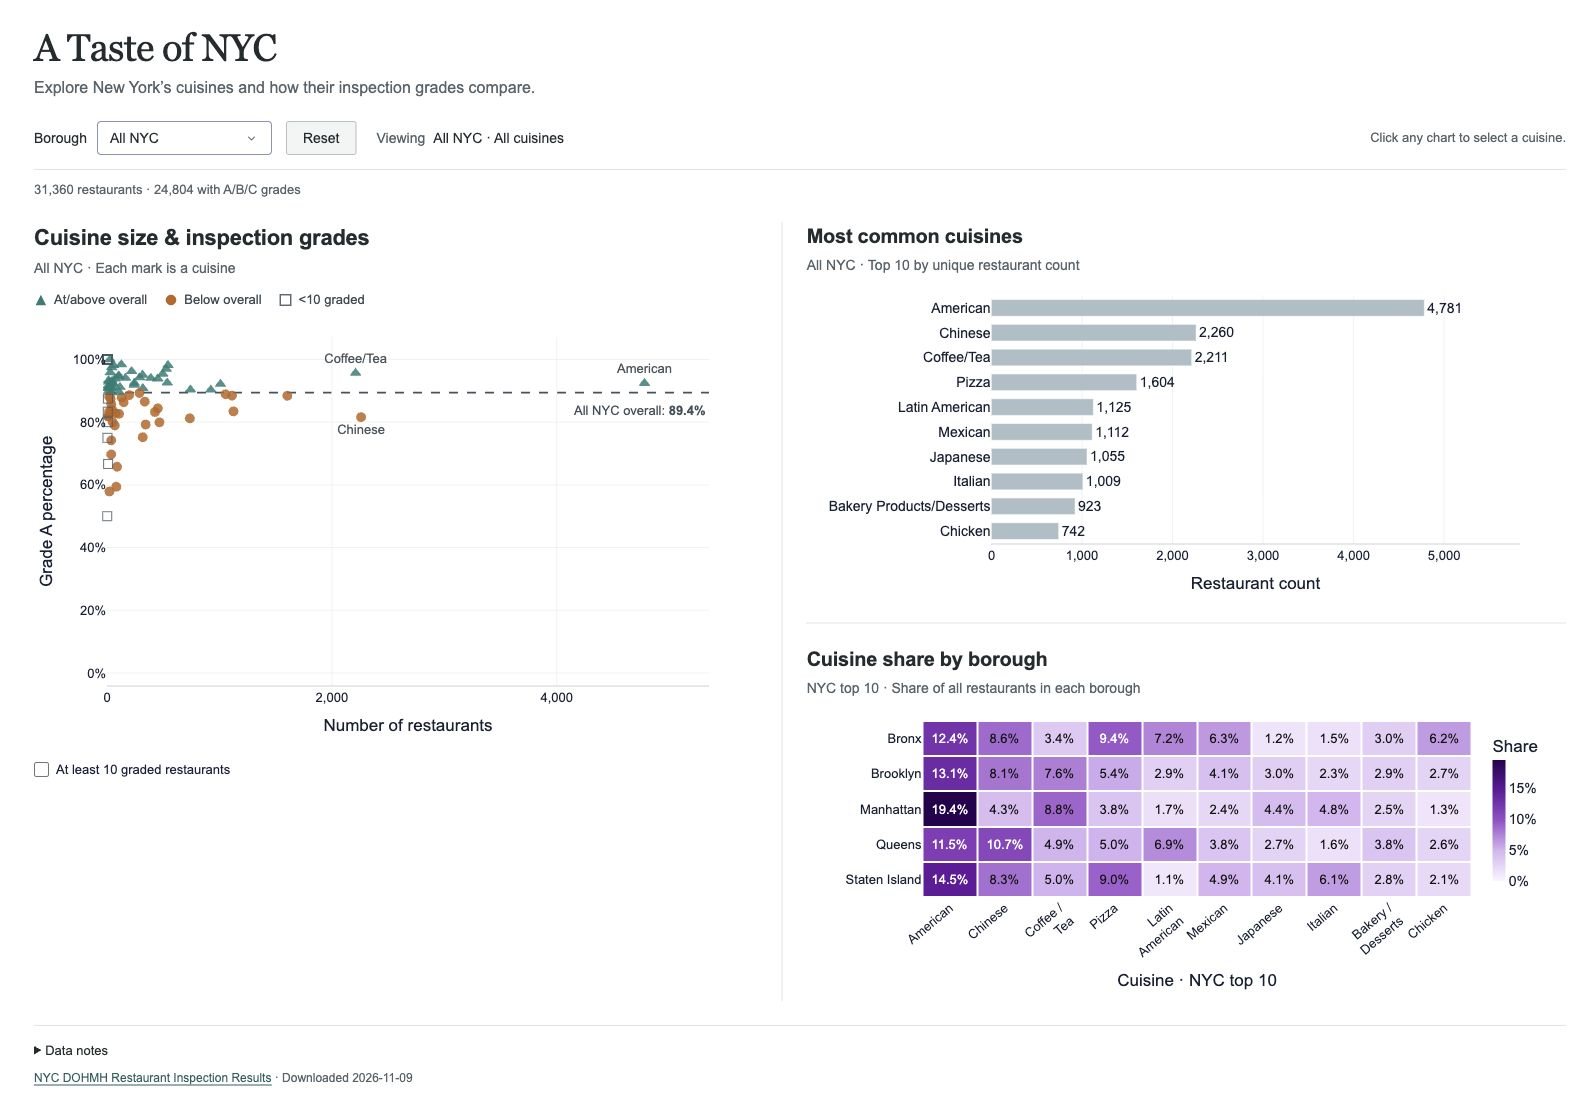
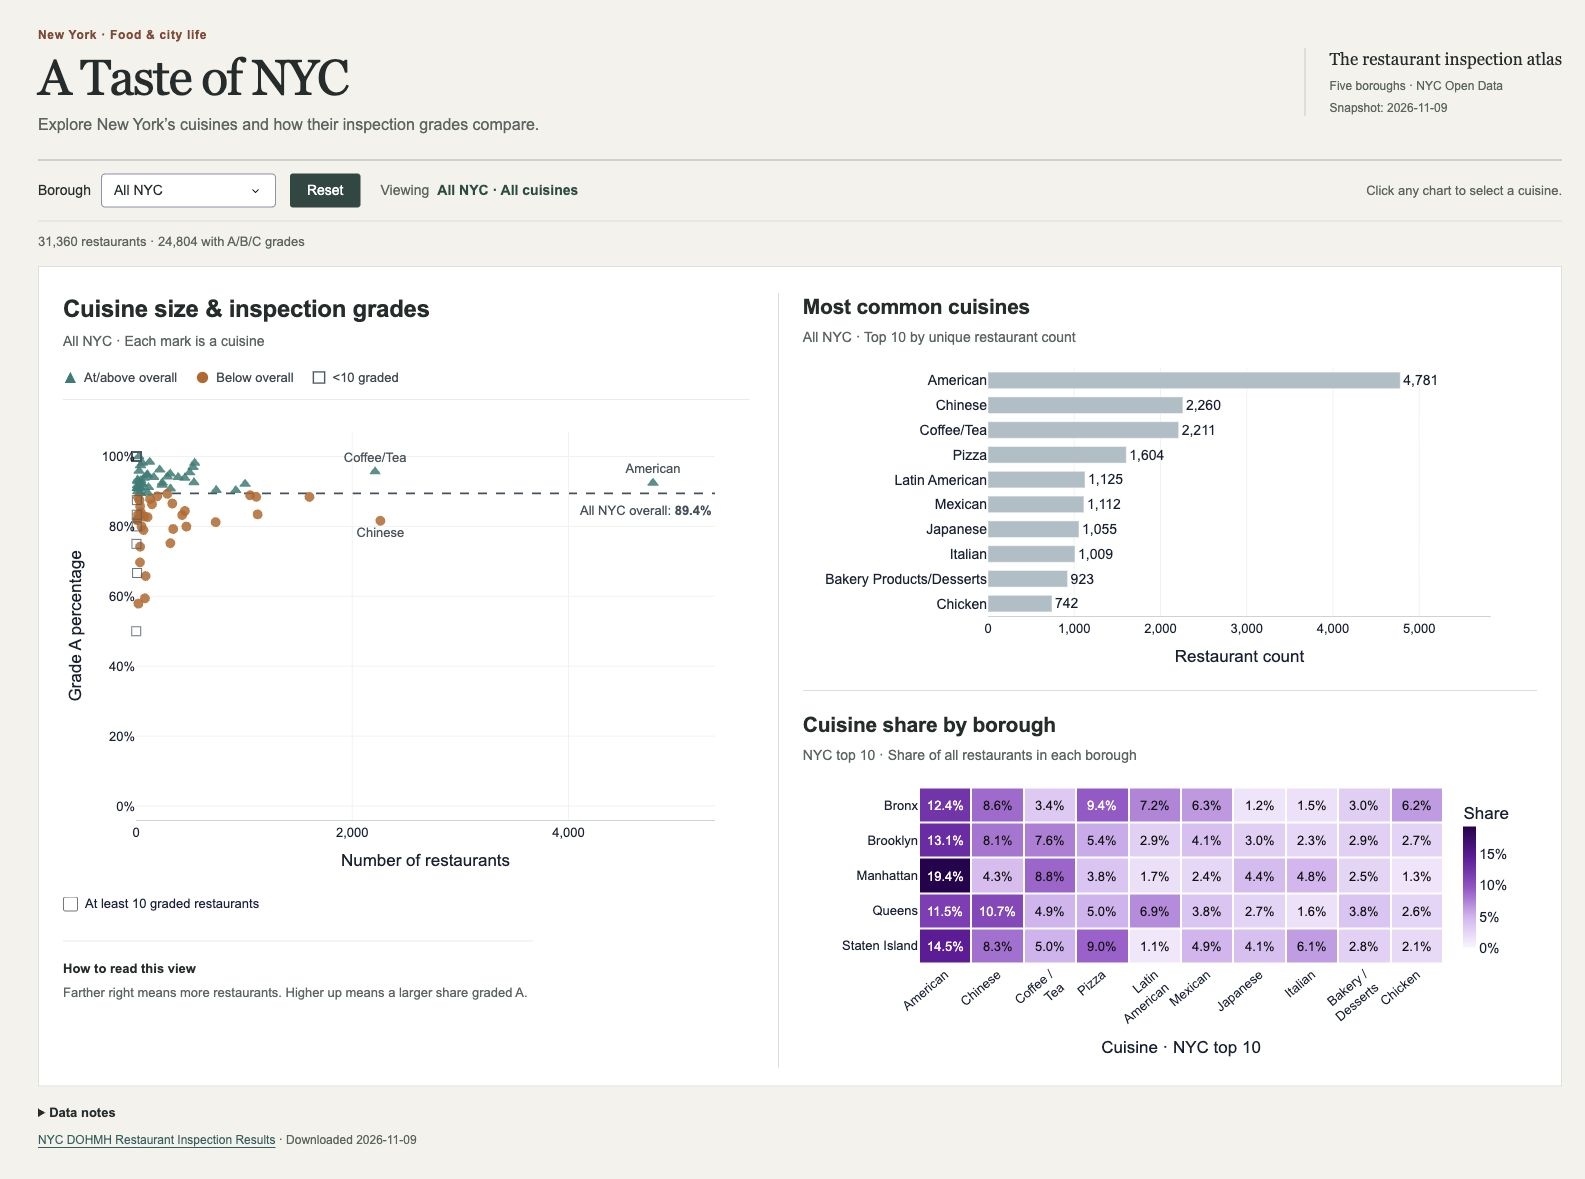
Give dashboard a warmer editorial visual identity

diff --git a/a-taste-of-nyc/assets/style.css b/a-taste-of-nyc/assets/style.css
@@ -1,41 +1,47 @@
-:root { color-scheme: light; --ink: #252b2e; --muted: #58636a; --line: #e0e4e5; --accent: #285f60; }
+:root { color-scheme: light; --ink: #252c2b; --muted: #59645f; --line: #d9ded9; --accent: #285f60; --paper: #f4f2eb; }
 * { box-sizing: border-box; }
-body { margin: 0; background: #fff; color: var(--ink); font-family: Arial, Helvetica, sans-serif; }
-.page { max-width: 1740px; margin: auto; padding: 26px 34px 20px; }
-header { margin-bottom: 22px; }
-h1 { font-family: Georgia, serif; font-size: 38px; font-weight: 500; letter-spacing: -.8px; margin: 0 0 7px; line-height: 1.12; }
+body { margin: 0; background: var(--paper); color: var(--ink); font-family: Arial, Helvetica, sans-serif; }
+.page { max-width: 1740px; margin: auto; padding: 28px 38px 22px; }
+header { display: flex; justify-content: space-between; align-items: center; gap: 30px; margin-bottom: 24px; }
+.eyebrow { margin: 0 0 9px; color: #864733; font-size: 12px; font-weight: 700; letter-spacing: .7px; }
+.edition { display: flex; flex-direction: column; gap: 7px; padding-left: 24px; border-left: 1px solid #c6cdc5; font-size: 12px; color: var(--muted); line-height: 1.3; }
+.edition-title { color: var(--ink); font-family: Georgia, serif; font-size: 17px; }
+.reading-note { margin: 25px 0 0; padding-top: 16px; border-top: 1px solid #e8ece7; max-width: 470px; font-size: 13px; line-height: 1.65; color: var(--muted); }
+.reading-note strong { display: block; color: var(--ink); font-weight: 600; margin-bottom: 3px; }
+h1 { font-family: Georgia, serif; font-size: 50px; font-weight: 500; letter-spacing: -1.7px; margin: 0 0 9px; line-height: 1.05; }
 .intro { color: var(--muted); font-size: 16px; margin: 0; line-height: 1.45; }
-.controls { display: flex; align-items: center; flex-wrap: wrap; gap: 14px; border-bottom: 1px solid var(--line); padding: 0 0 14px; }
+.controls { display: flex; align-items: center; flex-wrap: wrap; gap: 14px; border-top: 1px solid #a6b2a8; border-bottom: 1px solid var(--line); padding: 13px 0; }
 .filter { display: flex; align-items: center; gap: 10px; font-size: 14px; }
 #borough { width: 175px; font-size: 14px; }
-button { background: #fff; color: var(--ink); border: 1px solid #b7c0c4; border-radius: 3px; padding: 8px 16px; font-size: 14px; font-weight: 400; cursor: pointer; }
-button:hover { background: #f3f5f5; }
+button { background: #2c4742; color: #fff; border: 1px solid #2c4742; border-radius: 3px; padding: 8px 16px; font-size: 14px; font-weight: 400; cursor: pointer; }
+button:hover { background: #1b342f; }
 button:focus-visible, a:focus-visible, summary:focus-visible { outline: 2px solid var(--accent); outline-offset: 3px; }
 .selection { display: flex; align-items: baseline; gap: 8px; margin-left: 6px; font-size: 14px; }
 .selection-label { color: var(--muted); }
-.selection strong { color: var(--ink); font-weight: 500; }
+.selection strong { color: #204c43; font-weight: 600; }
 .hint { margin: 0 0 0 auto; font-size: 13px; color: var(--muted); }
-.metrics { padding: 12px 0 25px; font-size: 13px; color: var(--muted); }
-.chart-grid { display: grid; grid-template-columns: minmax(0, .95fr) minmax(0, 1.05fr); gap: 38px; align-items: start; }
-.right-column { display: grid; gap: 25px; min-width: 0; padding-left: 24px; border-left: 1px solid var(--line); }
+.metrics { padding: 12px 0 17px; font-size: 13px; color: var(--muted); }
+.chart-grid { display: grid; grid-template-columns: minmax(0, .95fr) minmax(0, 1.05fr); gap: 28px; align-items: start; background: #fff; border: 1px solid #dce1db; padding: 26px 24px 18px; }
+.right-column { display: grid; gap: 20px; min-width: 0; padding-left: 24px; border-left: 1px solid var(--line); }
 .panel { background: white; min-width: 0; }
-.right-column .panel + .panel { border-top: 1px solid var(--line); padding-top: 22px; }
-h2 { margin: 0; font-size: 20px; line-height: 1.3; font-weight: 600; letter-spacing: -.25px; }
-.scatter-panel h2 { font-size: 22px; }
+.right-column .panel + .panel { border-top: 1px solid var(--line); padding-top: 20px; }
+h2 { margin: 0; font-size: 21px; line-height: 1.3; font-weight: 600; letter-spacing: -.25px; }
+.scatter-panel h2 { font-size: 24px; max-width: 520px; }
 .chart-subtitle { font-size: 14px; color: var(--muted); font-weight: 400; margin: 7px 0 12px; line-height: 1.45; }
-.plot-key { display: flex; flex-wrap: wrap; gap: 9px 17px; margin: 14px 0 8px; font-size: 13px; color: #414a50; }
+.plot-key { display: flex; flex-wrap: wrap; gap: 9px 18px; margin: 18px 0 10px; padding-bottom: 14px; border-bottom: 1px solid #e8ece7; font-size: 13px; color: #414a50; }
 .plot-key span { display: inline-flex; align-items: center; gap: 6px; }
-.key-mark { display: inline-block; width: 14px; height: 14px; flex-shrink: 0; }
+.key-mark { display: inline-block; width: 15px; height: 15px; flex-shrink: 0; }
 .sample-controls { display: flex; flex-wrap: wrap; align-items: center; gap: 6px 16px; margin-top: 12px; font-size: 13px; color: #414a50; }
 .sample-controls label { display: inline-flex; align-items: center; gap: 7px; font-weight: 400; cursor: pointer; }
 .sample-controls input { accent-color: var(--accent); width: 15px; height: 15px; margin: 0; }
 #sample-status { color: var(--muted); font-size: 12px; }
 #sample-status:empty { display: none; }
-.data-notes { border-top: 1px solid var(--line); padding-top: 14px; margin-top: 24px; font-size: 13px; color: var(--muted); line-height: 1.6; }
-.data-notes summary { cursor: pointer; color: var(--ink); width: fit-content; }
+.data-notes { padding-top: 16px; font-size: 13px; color: var(--muted); line-height: 1.6; }
+.data-notes summary { cursor: pointer; color: var(--ink); width: fit-content; font-weight: 600; }
 .data-notes p { margin: 8px 0; max-width: 1050px; }
 footer { margin-top: 10px; color: var(--muted); font-size: 12px; }
 a { color: var(--accent); text-underline-offset: 3px; }
-@media (max-width: 1400px) { .page { padding: 24px; } .hint { display: none; } .chart-grid { gap: 26px; } .right-column { padding-left: 20px; } .heatmap-plot { min-width: 700px; } .panel:has(.heatmap-plot) { overflow-x: auto; } }
-@media (max-width: 1150px) { .chart-grid { grid-template-columns: 1fr; gap: 30px; } .right-column { border-left: 0; padding-left: 0; gap: 26px; } .scatter-plot { height: 420px !important; } .heatmap-plot { min-width: 740px; } }
-@media (max-width: 550px) { .page { padding: 20px 14px; } h1 { font-size: 34px; } .intro { font-size: 15px; } header { margin-bottom: 18px; } .controls { gap: 10px; } .selection { margin-left: 0; width: 100%; flex-wrap: wrap; } #borough { width: 145px; } button { padding: 9px 13px; } h2, .scatter-panel h2 { font-size: 20px; } .panel:has(.heatmap-plot) .chart-subtitle::after { content: "Scroll horizontally to compare all cuisines →"; display: block; margin-top: 6px; color: var(--accent); } }
+@media (max-width: 1400px) { .page { padding: 24px; } .hint { display: none; } .chart-grid { padding: 22px 18px 16px; gap: 18px; } .right-column { padding-left: 18px; } .scatter-panel h2 { font-size: 22px; } h2 { font-size: 20px; } .edition { max-width: 240px; } }
+@media (max-width: 1150px) { .chart-grid { grid-template-columns: 1fr; gap: 30px; } .right-column { border-left: 0; padding-left: 0; gap: 26px; } .scatter-plot { height: 420px !important; } .reading-note { max-width: none; } }
+@media (max-width: 700px) { header { display: block; } .edition { display: none; } .heatmap-plot { min-width: 680px; } .panel:has(.heatmap-plot) { overflow-x: auto; } .panel:has(.heatmap-plot) .chart-subtitle::after { content: "Scroll horizontally to compare all cuisines →"; display: block; margin-top: 6px; color: var(--accent); } }
+@media (max-width: 550px) { .page { padding: 20px 12px; } h1 { font-size: 40px; } .intro { font-size: 15px; } header { margin-bottom: 18px; } .controls { gap: 10px; } .selection { margin-left: 0; width: 100%; flex-wrap: wrap; } #borough { width: 145px; } button { padding: 9px 13px; } .chart-grid { padding: 20px 12px; } h2, .scatter-panel h2 { font-size: 20px; } }

diff --git a/a-taste-of-nyc/app.py b/a-taste-of-nyc/app.py
@@ -280,8 +280,12 @@ def create_app(frame=None, metadata=None):
     app = Dash(__name__, title="A Taste of NYC", assets_folder=str(ROOT / "assets"))
     app.layout = html.Main([
         html.Header([
-            html.Div([html.H1("A Taste of NYC"),
+            html.Div([html.P("New York · Food & city life", className="eyebrow"),
+                      html.H1("A Taste of NYC"),
                       html.P("Explore New York’s cuisines and how their inspection grades compare.", className="intro")]),
+            html.Div([html.Span("The restaurant inspection atlas", className="edition-title"),
+                      html.Span("Five boroughs · NYC Open Data"),
+                      html.Span(f"Snapshot: {metadata.get("download_date", "unknown")}")], className="edition"),
         ]),
         html.Div([
             html.Div([html.Label("Borough", htmlFor="borough"),
@@ -302,11 +306,13 @@ def create_app(frame=None, metadata=None):
                     html.Span([html.Img(src="/assets/legend-square-open.svg", className="key-mark", alt=""),
                                "<10 graded"]),
                 ], className="plot-key"),
-                dcc.Graph(id="scatter", config=CONFIG, responsive=True, style={"height": "430px"}, className="scatter-plot"),
+                dcc.Graph(id="scatter", config=CONFIG, responsive=True, style={"height": "470px"}, className="scatter-plot"),
                 html.Div([
                     dcc.Checklist(id="sample-filter", options=[{"label": "At least 10 graded restaurants", "value": "ten"}], value=[]),
                     html.Span(id="sample-status", **{"aria-live": "polite"}),
                 ], className="sample-controls"),
+                html.P([html.Strong("How to read this view"),
+                        html.Span("Farther right means more restaurants. Higher up means a larger share graded A.")], className="reading-note"),
             ], className="panel scatter-panel"),
             html.Div([
                 html.Section([

diff --git a/a-taste-of-nyc/README.md b/a-taste-of-nyc/README.md
@@ -93,7 +93,7 @@ The saved audit is [data/cuisine_missingness_audit.json](data/cuisine_missingnes
 
 These refinements retain Option B and the original chart types and axes. The added reference line and binary comparison colors strengthen RQ3. No logarithmic axis or arbitrary cuisine palette was introduced. The selected scatter point is labeled, with up to three common cuisines labeled where approximate text-box checks find room. The chart numbering was removed; the original research-question mapping remains RQ3 / RQ1 / RQ2.
 
-The editorial revision uses a 38 px serif page title, 20–22 px chart titles, 14 px scope subtitles and 13–15 px chart labels. Controls have no background band, statistics occupy one short line, and thin gray separators replace colored section rules. The compact scatter legend contains exactly one triangle, circle and hollow square. The sample filter sits below scatter, and detailed explanations are expandable. Heatmap labels retain their 40° angle. Data and selection behavior are unchanged.
+The editorial revision uses a warm off-white page, a 50 px serif desktop title (40 px on phones), and a single white canvas containing all three charts. Chart titles are 21–24 px on wide screens, scope subtitles 14 px, and plot labels 13–15 px. A small subject line and source/snapshot block frame the heading; dark green controls and selection text establish hierarchy without separate KPI cards. Thin separators organize the views. The scatter legend contains exactly one triangle, circle and hollow square. The sample filter and a short reading guide sit below scatter, and detailed methodology is expandable. Heatmap labels retain their 40° angle. The full heatmap and its color scale fit the checked 1280 px laptop layout; below 700 px the heatmap scrolls within its own panel. Data and selection behavior are unchanged. The revised layout was inspected at 1600, 1280 and 390 px widths.
 
 Design references inspected for this revision: [The Pudding’s restaurant story](https://pudding.cool/2018/02/restaurants/), [Our World in Data’s scatter explorer](https://ourworldindata.org/grapher/life-expectancy-vs-gdp-per-capita?time=2020), and [Datawrapper scatter examples](https://www.datawrapper.de/docs/examples-of-datawrapper-scatter-plots). These informed the simpler typography, quieter controls and direct chart annotations. The implementation is original; no site assets were copied.
 
